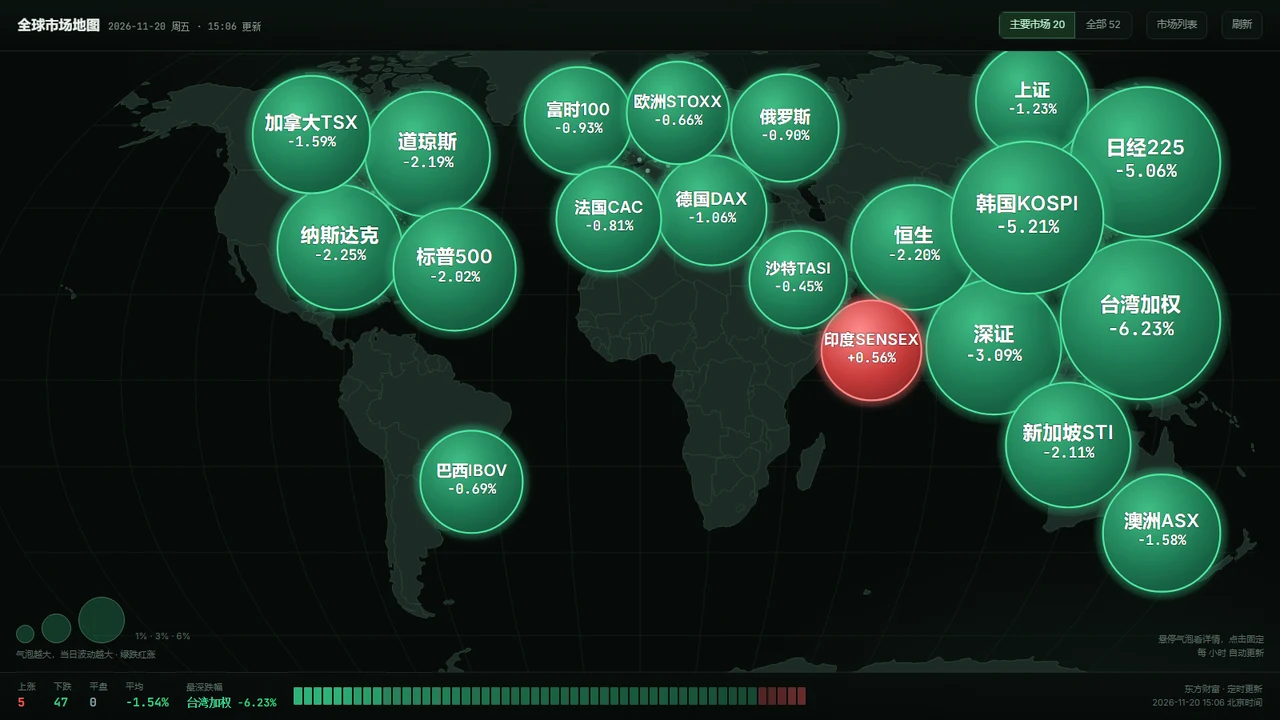
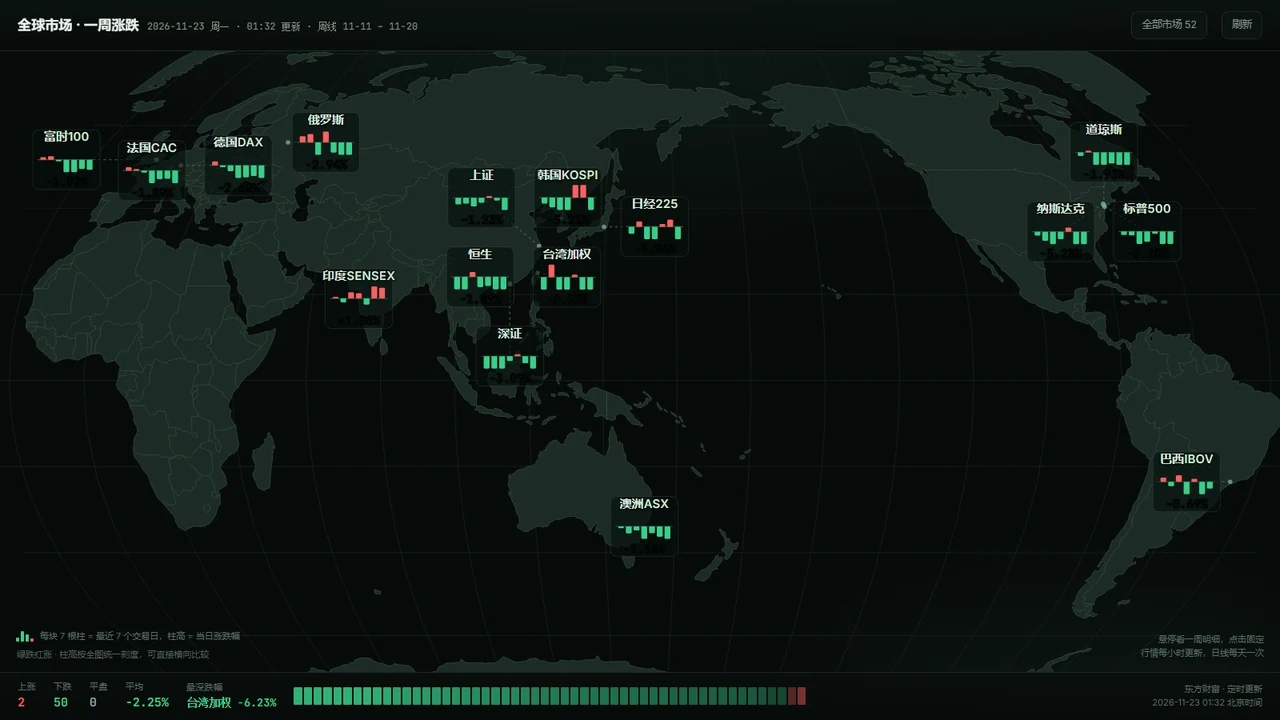
docs: README 改为柱状图版，更新截图

diff --git a/README.md b/README.md
@@ -2,19 +2,20 @@
 
 ![全球市场地图](docs/screenshot.webp)
 
-一张暗色世界地图看全球主要股指的当日涨跌：**气泡越大波动越大，绿跌红涨**，悬停读详情。覆盖 52 个指数、5 个大洲。
+暗色世界地图（**中国版，中央经线 150°E，太平洋居中**）上，每个主要市场是一块小卡片：**7 根柱 = 最近 7 个交易日，柱高 = 当日涨跌幅，绿跌红涨**，柱下一行是当日涨跌幅。覆盖 52 个指数、5 个大洲，地图上画 16 个核心市场。
 
-- 主要市场视图：20 个核心指数，气泡带名称与涨跌幅
-- 全部视图：52 个市场缩成小圆点，悬停/点开看详情，避免气泡糊成一片
-- 市场列表：按涨跌幅排序、按大洲分组，点击定位
-- 数据每小时自动更新（GitHub Actions）
+- 柱高用同一个刻度（8px / 1%），可以直接横向比较哪个市场跌得凶
+- 悬停任意卡片：点位、涨跌点数、逐日明细、区间累计、该市场的报价时间
+- 全部 52 个市场：右侧列表按涨跌幅排序、按大洲分组
+- 行情每小时更新，一周日线每天抓一次（GitHub Actions）
 
 ## 数据
 
 | 项 | 说明 |
 | --- | --- |
 | 来源 | 东方财富全球指数行情（`push2.eastmoney.com`） |
-| 快照 | `public/data/snapshot.json`，由 `scripts/fetch-data.mjs` 生成 |
+| 实时快照 | `public/data/snapshot.json` — 52 个市场的点位/涨跌额/涨跌幅/报价时间 |
+| 一周日线 | `public/data/history.json` — 16 个核心市场最近 8 个交易日的收盘与涨跌幅 |
 | 频率 | GitHub Actions `cron: 5 * * * *`，每小时第 5 分钟；内容有变化才提交 |
 | 时区 | 所有时间按北京时间（UTC+8）展示 |
 
@@ -24,10 +25,12 @@
 
 ```bash
 npm install
-npm run fetch     # 抓一次最新行情，写入 public/data/snapshot.json
+npm run fetch     # 抓最新行情；当天没抓过日线就顺带抓一周日线
 npm run dev       # http://localhost:5173
 npm run build     # 产物在 dist/
 ```
+
+`push2his.eastmoney.com`（日线接口）对密集请求敏感，连发几十次会被临时断连。脚本已经做成串行 + 900ms 间隔 + 每天只抓一次；本地若仍失败，页面会退化成「只有当日一根柱」，实时行情不受影响。
 
 生成/更新地图底图（改了 `src/data/places.json` 的经纬度后需要跑）：
 
@@ -41,14 +44,14 @@ node scripts/gen-map.mjs
 
 ```
 scripts/
-  fetch-data.mjs      抓东财行情 → public/data/snapshot.json
-  gen-map.mjs         world-atlas → 世界轮廓 path + 城市投影坐标
+  fetch-data.mjs      抓东财行情 → snapshot.json；每天一次抓日线 → history.json
+  gen-map.mjs         world-atlas → 中国版世界轮廓 path + 城市投影坐标
 src/
   data/places.json    52 个市场的元数据（代码/名称/城市/经纬度/是否核心）
   data/geo.generated.ts
-  lib/market.ts       类型、颜色、半径、格式化
-  lib/layout.ts       气泡避让（同城多指数的斥力松弛）
-  components/WorldMap.tsx     SVG 世界地图 + 气泡
+  lib/market.ts       类型、颜色、格式化、数据加载
+  lib/blockLayout.ts  柱状图块避让（AABB 斥力松弛）
+  components/MarketBars.tsx   SVG 世界地图 + 一周柱状图
   components/MarketPanel.tsx  列表侧栏 + 悬停详情卡
   App.tsx
 .github/workflows/
@@ -59,6 +62,7 @@ src/
 ## 统计口径
 
 - 涨跌幅、点位、涨跌点数一律取自数据源原值，没有二次加工
+- 「区间累计」是这 7 个交易日涨跌幅的复合，不是首尾收盘价的比值差（两者略有出入，前者与逐日数字自洽）
 - "平均"是 52 个指数涨跌幅的算术平均，不代表任何可投资组合
 - 各交易所收盘时间不同，同一时刻图上混合了隔夜收盘价与盘中价，气泡详情里给出每个市场的实际报价时间
 
